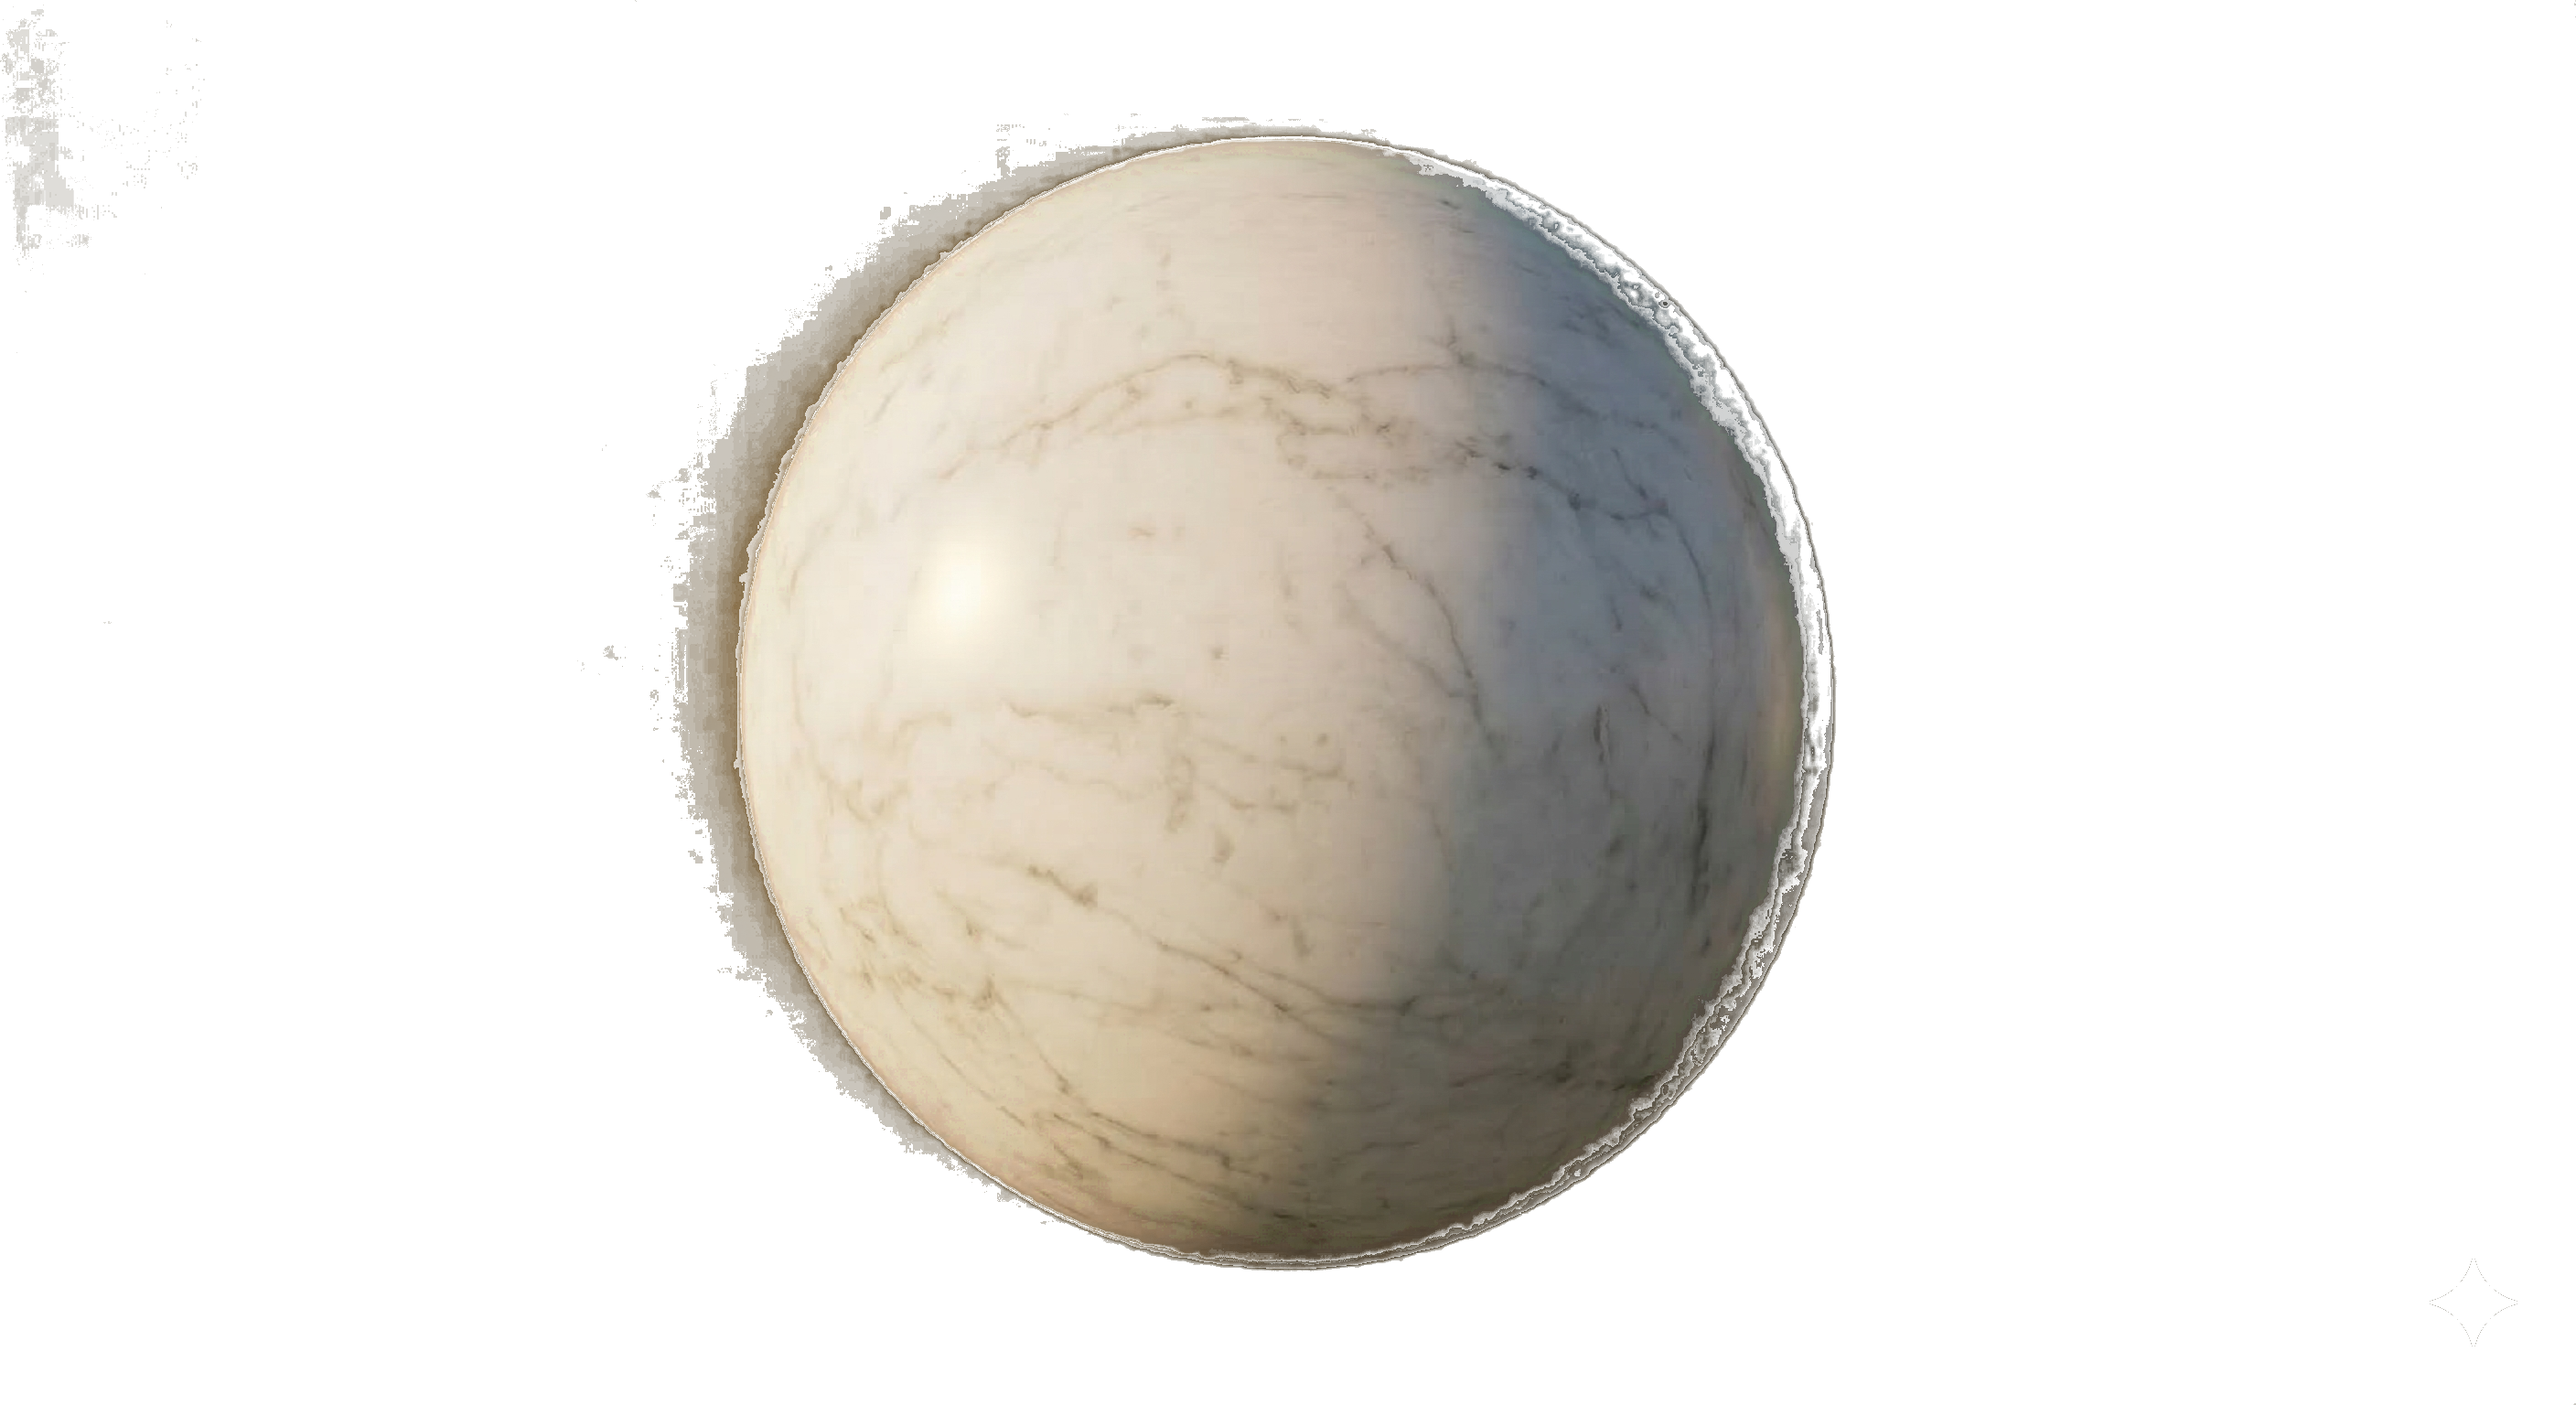
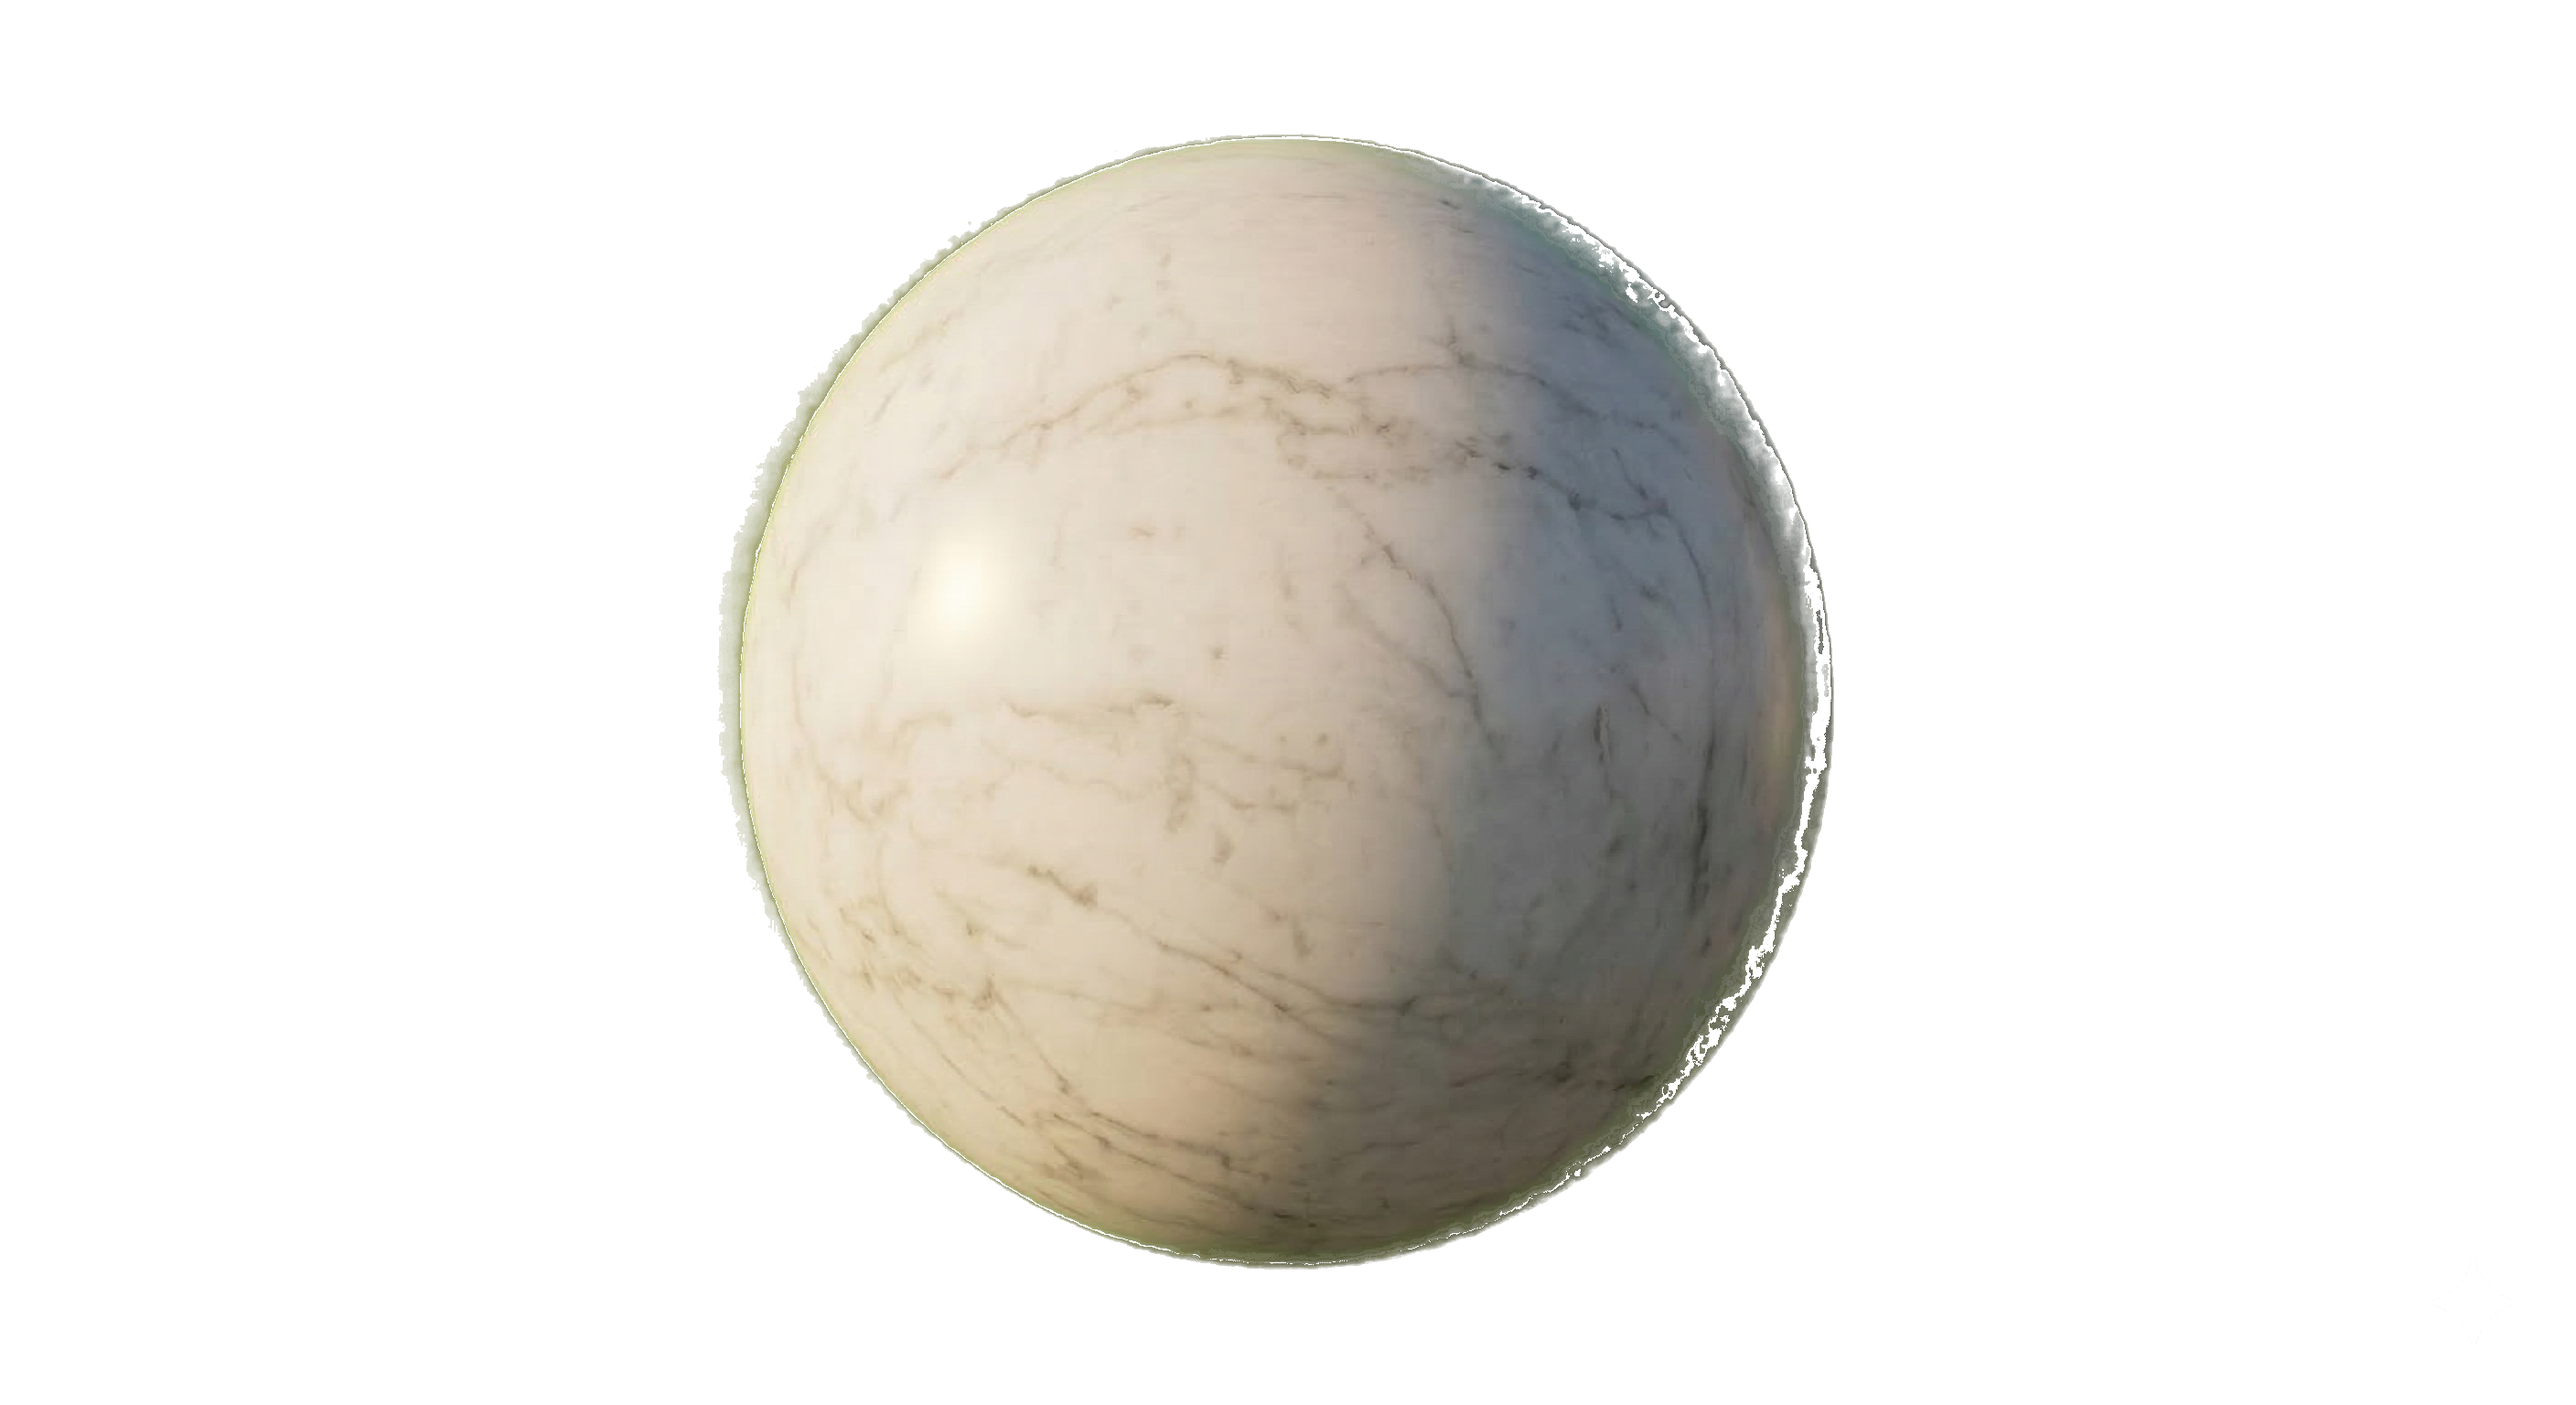
Fix header background, chroma key images, engage tiers with glow-box
- Add solid dark background to site header so content doesn't overlap
- Remove overflow:hidden clipping sculpture images on all sections
- Re-process all sculpture images with improved multi-pass chroma key
- Add glow-box styling to engage page tier cards with hover animation
- Make tier cards clickable links to booking calendar
- Remove mix-blend-mode:screen from sculpture images (caused halos)
- Use new_globe.png on work page hero

diff --git a/engage.html b/engage.html
@@ -225,7 +225,7 @@
   <div class="page-wrap">
 
     <!-- Hero -->
-    <section class="page-hero" style="overflow: hidden;">
+    <section class="page-hero">
       <img src="assets/images/processed/map2.png" alt="" class="page-hero-sculpture" aria-hidden="true">
       <span class="section-eyebrow">// How We Work Together</span>
       <h1 class="page-hero-heading">Every engagement<br>starts with <em>a conversation.</em></h1>
@@ -233,75 +233,63 @@
     </section>
 
     <!-- Tiers -->
-    <section class="tiers-section" style="display: none;">
+    <section class="tiers-section">
       <div class="tiers-section-header reveal">
         <span class="section-eyebrow">// Engagement Tiers</span>
         <h2 class="below-heading">Three ways to work<br>together.</h2>
       </div>
       <div class="tiers-list">
 
-        <div class="tier-row reveal">
+        <a href="https://calendar.google.com/calendar/appointments/schedules/AcZssZ32DFpQ4ETsBVhq4pKEmA65xB7ep7M1uDpfCLAyyDNhQBA1H_2HDW5aJUzX-sZBiYgd506EWp8P" target="_blank" rel="noopener" class="tier-row glow-box reveal">
           <span class="tier-number">01</span>
           <div class="tier-info">
             <h3 class="tier-title">Digital Formation Foundations</h3>
             <span class="tier-commitment">$1,500 — 1-month engagement</span>
           </div>
-          <div>
-            <p class="tier-desc">For leaders who need to understand where they stand before they build anything. We spend one month asking hard questions about your digital presence, your vision, and the gap between them. You leave with clarity.</p>
-            <ul class="tier-includes">
-              <li>Weekly 1:1 sessions</li>
-              <li>One team briefing</li>
-            </ul>
-          </div>
-          <div class="tier-price-col">
-            <a href="https://calendar.google.com/calendar/appointments/schedules/AcZssZ32DFpQ4ETsBVhq4pKEmA65xB7ep7M1uDpfCLAyyDNhQBA1H_2HDW5aJUzX-sZBiYgd506EWp8P" target="_blank" rel="noopener" class="tier-cta">Start a Conversation</a>
-          </div>
-        </div>
+          <p class="tier-desc">For leaders who need to understand where they stand before they build anything. We spend one month asking hard questions about your digital presence, your vision, and the gap between them. You leave with clarity.</p>
+          <ul class="tier-includes">
+            <li>Weekly 1:1 sessions</li>
+            <li>One team briefing</li>
+          </ul>
+          <span class="tier-cta-label">Start a Conversation</span>
+        </a>
 
-        <div class="tier-row reveal">
+        <a href="https://calendar.google.com/calendar/appointments/schedules/AcZssZ32DFpQ4ETsBVhq4pKEmA65xB7ep7M1uDpfCLAyyDNhQBA1H_2HDW5aJUzX-sZBiYgd506EWp8P" target="_blank" rel="noopener" class="tier-row glow-box reveal">
           <span class="tier-number">02</span>
           <div class="tier-info">
             <h3 class="tier-title">Digital Formation Audit</h3>
             <span class="tier-commitment">$3,500/month — 3-month engagement</span>
           </div>
-          <div>
-            <p class="tier-desc">For leaders who are ready to know the truth about their digital presence. We audit every channel, surface what is working and what is not, and close with a team workshop where we hand off a clear formation strategy. You end with a map.</p>
-            <ul class="tier-includes">
-              <li>Full digital audit</li>
-              <li>Bi-weekly sessions</li>
-              <li>Closing team workshop</li>
-            </ul>
-          </div>
-          <div class="tier-price-col">
-            <a href="https://calendar.google.com/calendar/appointments/schedules/AcZssZ32DFpQ4ETsBVhq4pKEmA65xB7ep7M1uDpfCLAyyDNhQBA1H_2HDW5aJUzX-sZBiYgd506EWp8P" target="_blank" rel="noopener" class="tier-cta">Start a Conversation</a>
-          </div>
-        </div>
+          <p class="tier-desc">For leaders who are ready to know the truth about their digital presence. We audit every channel, surface what is working and what is not, and close with a team workshop where we hand off a clear formation strategy. You end with a map.</p>
+          <ul class="tier-includes">
+            <li>Full digital audit</li>
+            <li>Bi-weekly sessions</li>
+            <li>Closing team workshop</li>
+          </ul>
+          <span class="tier-cta-label">Start a Conversation</span>
+        </a>
 
-        <div class="tier-row reveal">
+        <a href="https://calendar.google.com/calendar/appointments/schedules/AcZssZ32DFpQ4ETsBVhq4pKEmA65xB7ep7M1uDpfCLAyyDNhQBA1H_2HDW5aJUzX-sZBiYgd506EWp8P" target="_blank" rel="noopener" class="tier-row glow-box reveal">
           <span class="tier-number">03</span>
           <div class="tier-info">
             <h3 class="tier-title">Full Equipping Engagement</h3>
             <span class="tier-commitment">$5,000+/month — 6-month engagement</span>
           </div>
-          <div>
-            <p class="tier-desc">For leaders who are done diagnosing and ready to build. We stay embedded long enough to see the strategy actually change what your team produces. We build the frameworks with you, train your people across multiple sessions, and walk the road through implementation. You end with a system that runs.</p>
-            <ul class="tier-includes">
-              <li>Full digital audit + formation strategy</li>
-              <li>Content framework development</li>
-              <li>Multiple team training sessions</li>
-              <li>Hands-on implementation partnership</li>
-            </ul>
-          </div>
-          <div class="tier-price-col">
-            <a href="https://calendar.google.com/calendar/appointments/schedules/AcZssZ32DFpQ4ETsBVhq4pKEmA65xB7ep7M1uDpfCLAyyDNhQBA1H_2HDW5aJUzX-sZBiYgd506EWp8P" target="_blank" rel="noopener" class="tier-cta">Start a Conversation</a>
-          </div>
-        </div>
+          <p class="tier-desc">For leaders who are done diagnosing and ready to build. We stay embedded long enough to see the strategy actually change what your team produces. We build the frameworks with you, train your people across multiple sessions, and walk the road through implementation. You end with a system that runs.</p>
+          <ul class="tier-includes">
+            <li>Full digital audit + formation strategy</li>
+            <li>Content framework development</li>
+            <li>Multiple team training sessions</li>
+            <li>Hands-on implementation partnership</li>
+          </ul>
+          <span class="tier-cta-label">Start a Conversation</span>
+        </a>
 
       </div>
     </section>
 
     <!-- What to Expect -->
-    <section class="expect-section" style="display: none;">
+    <section class="expect-section">
       <div class="expect-header reveal">
         <span class="section-eyebrow">// What to Expect</span>
         <h2 class="below-heading">The first conversation<br>sets the tone.</h2>
@@ -336,7 +324,7 @@
     </section>
 
     <!-- CTA -->
-    <section class="engage-cta" style="overflow: hidden; position: relative;">
+    <section class="engage-cta" style="position: relative;">
       <img src="assets/images/processed/paper2.png" alt="" class="section-sculpture section-sculpture-left" aria-hidden="true">
       <div class="engage-cta-text reveal">
         <h2 class="engage-cta-heading">Ready to start<br>a conversation?</h2>

diff --git a/css/style.css b/css/style.css
@@ -128,6 +128,8 @@ body {
   right: 0;
   z-index: 100;
   padding: 1.5rem 3rem;
+  background: var(--bg);
+  border-bottom: 1px solid rgba(255, 255, 255, 0.06);
 }
 
 .header-inner {
@@ -623,7 +625,6 @@ body {
   transform: translateY(-50%);
   height: 120%;
   width: auto;
-  mix-blend-mode: screen;
   opacity: 0.18;
   pointer-events: none;
   user-select: none;
@@ -635,7 +636,6 @@ body {
   transform: translateY(-50%);
   height: 80%;
   width: auto;
-  mix-blend-mode: screen;
   opacity: 0.14;
   pointer-events: none;
   user-select: none;
@@ -775,7 +775,6 @@ body {
   padding: 8rem 6vw;
   border-top: 1px solid rgba(138, 130, 120, 0.2);
   position: relative;
-  overflow: hidden;
 }
 
 /* Arch with flowers — ghosted atmosphere behind tiers */
@@ -937,7 +936,6 @@ body {
   padding: 8rem 6vw;
   border-top: 1px solid rgba(138, 130, 120, 0.2);
   position: relative;
-  overflow: hidden;
 }
 
 /* Marble hand with flowers — "back to life" anchor image */
@@ -995,7 +993,7 @@ body {
   border: 1px solid rgba(57, 255, 20, 0.35);
   padding: 2rem 2.25rem;
   position: relative;
-  background: rgba(37, 33, 24, 0.88);
+  background: rgba(37, 33, 24, 0.95);
   box-shadow:
     0 0 12px rgba(57, 255, 20, 0.08),
     0 0 32px rgba(57, 255, 20, 0.04),
@@ -1034,6 +1032,22 @@ body {
 
 .tier-row.glow-box:active {
   transform: scale(0.99);
+}
+
+.tier-cta-label {
+  font-family: var(--font-mono);
+  font-size: 0.6rem;
+  color: var(--bi-phosphor);
+  letter-spacing: 0.1em;
+  text-transform: uppercase;
+  margin-top: auto;
+  padding-top: 1rem;
+  opacity: 0.6;
+  transition: opacity 0.3s ease;
+}
+
+.tier-row.glow-box:hover .tier-cta-label {
+  opacity: 1;
 }
 
 /* ─── Tier subtitle ─── */

diff --git a/work.html b/work.html
@@ -247,8 +247,8 @@
   <div class="page-wrap">
 
     <!-- Hero -->
-    <section class="page-hero" style="overflow: hidden;">
-      <img src="assets/images/processed/globe2.png" alt="" class="page-hero-sculpture" aria-hidden="true">
+    <section class="page-hero">
+      <img src="assets/images/processed/new_globe.png" alt="" class="page-hero-sculpture" aria-hidden="true">
 
       <span class="section-eyebrow">// The Work</span>
       <h1 class="page-hero-heading">What we've<br>built <em>together.</em></h1>
@@ -295,7 +295,7 @@
     </section>
 
     <!-- Approach -->
-    <section class="work-approach" style="overflow: hidden; position: relative;">
+    <section class="work-approach" style="position: relative;">
       <img src="assets/images/processed/plate1.png" alt="" class="section-sculpture section-sculpture-right" aria-hidden="true">
       <div class="approach-header reveal">
         <span class="section-eyebrow">// How We Work</span>

diff --git a/index.html b/index.html
@@ -113,7 +113,7 @@
   <!-- ─── CONTENT BELOW FOLD ─────────────────── -->
 
   <!-- Partners -->
-  <section class="below-fold partners-section" id="partners" style="overflow: hidden; position: relative;">
+  <section class="below-fold partners-section" id="partners" style="position: relative;">
     <img src="assets/images/processed/new_globe.png" alt="" class="section-sculpture section-sculpture-right" aria-hidden="true">
     <div class="partners-header">
       <span class="section-eyebrow">// Recent Partners</span>
